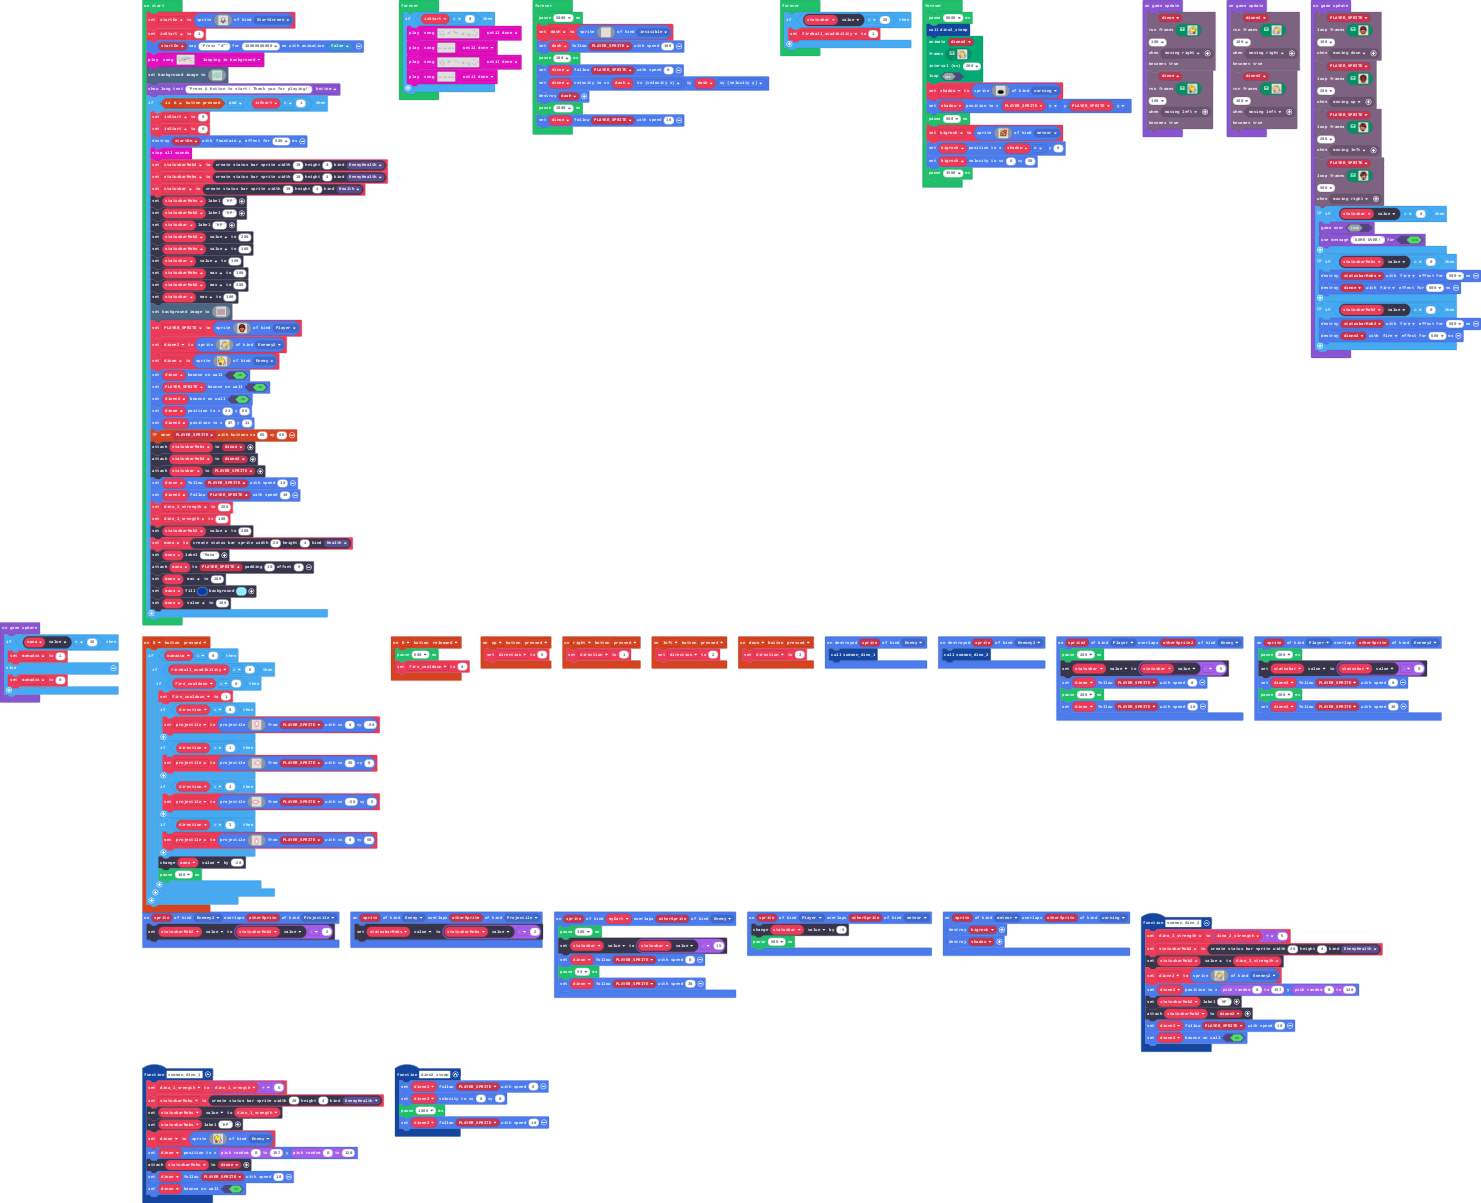
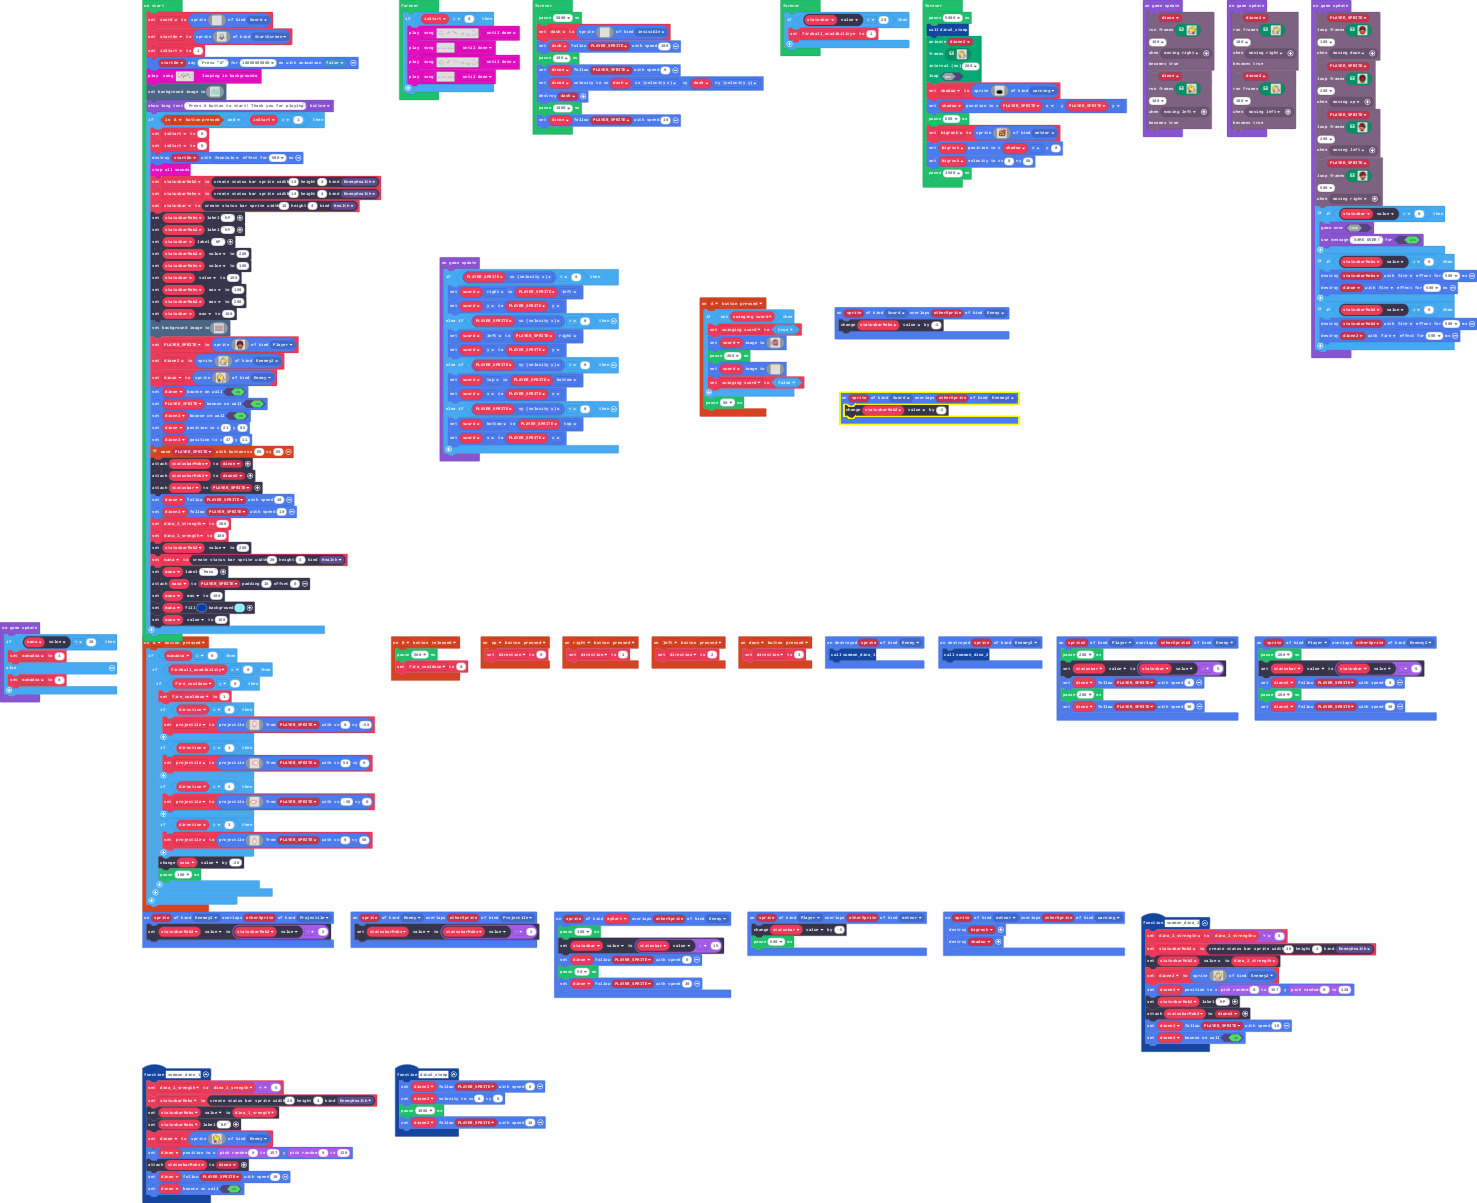
Update main.blocks, main.ts

diff --git a/main.ts b/main.ts
@@ -4,6 +4,7 @@ namespace SpriteKind {
     export const meteor = SpriteKind.create()
     export const invisible = SpriteKind.create()
     export const StartScreen = SpriteKind.create()
+    export const Sword = SpriteKind.create()
 }
 let myDart = 0
 controller.up.onEvent(ControllerButtonEvent.Pressed, function () {
@@ -46,6 +47,50 @@ function summon_dino_1 () {
     dinoe.follow(PLAYER_SPRITE, 10)
     dinoe.setBounceOnWall(true)
 }
+controller.A.onEvent(ControllerButtonEvent.Pressed, function () {
+    if (!(swinging_sword)) {
+        swinging_sword = true
+        sword.setImage(img`
+            . . . . . . . . . . . . . . . . 
+            . . . . . . e . e e e . . . . . 
+            . . . . e e e e e e e e . . . . 
+            . . . . e e e e . e e e e . . . 
+            . . . e e e e e . e e . e . . . 
+            . . e e e . e e . e . e e e . . 
+            . e . e e . e . . e . e e e . . 
+            . e e . e . e . . e . e . e . . 
+            e . e . e . e . e . . e . e . . 
+            e . e . e e e . e . e e . e . . 
+            . e . e . e e e e e e . e e . . 
+            . e e . e . e e e e e e e . . . 
+            . . . e e e . . e . e e e . . . 
+            . . . . . e e e e e e e . . . . 
+            . . . . . . . . . . . . . . . . 
+            . . . . . . . . . . . . . . . . 
+            `)
+        pause(200)
+        sword.setImage(img`
+            . . . . . . . . . . . . . . . . 
+            . . . . . . . . . . . . . . . . 
+            . . . . . . . . . . . . . . . . 
+            . . . . . . . . . . . . . . . . 
+            . . . . . . . . . . . . . . . . 
+            . . . . . . . . . . . . . . . . 
+            . . . . . . . . . . . . . . . . 
+            . . . . . . . . . . . . . . . . 
+            . . . . . . . . . . . . . . . . 
+            . . . . . . . . . . . . . . . . 
+            . . . . . . . . . . . . . . . . 
+            . . . . . . . . . . . . . . . . 
+            . . . . . . . . . . . . . . . . 
+            . . . . . . . . . . . . . . . . 
+            . . . . . . . . . . . . . . . . 
+            . . . . . . . . . . . . . . . . 
+            `)
+        swinging_sword = false
+    }
+    pause(50)
+})
 sprites.onOverlap(SpriteKind.Player, SpriteKind.meteor, function (sprite, otherSprite) {
     statusbar.value += -5
     pause(500)
@@ -94,6 +139,9 @@ function dino2_stomp () {
     pause(1000)
     dione2.follow(PLAYER_SPRITE, 10)
 }
+sprites.onOverlap(SpriteKind.Sword, SpriteKind.Enemey2, function (sprite, otherSprite) {
+    statusbarMob2.value += -2
+})
 sprites.onDestroyed(SpriteKind.Enemey2, function (sprite) {
     summon_dino_2()
 })
@@ -111,12 +159,16 @@ controller.B.onEvent(ControllerButtonEvent.Released, function () {
     pause(500)
     fire_cooldown = 0
 })
+sprites.onOverlap(SpriteKind.Sword, SpriteKind.Enemy, function (sprite, otherSprite) {
+    statusbarMobs.value += -2
+})
 sprites.onDestroyed(SpriteKind.Enemy, function (sprite) {
     summon_dino_1()
 })
 let dash: Sprite = null
 let shadow: Sprite = null
 let bigrock: Sprite = null
+let swinging_sword = false
 let projectile: Sprite = null
 let fire_cooldown = 0
 let fireball_avadibility = 0
@@ -131,6 +183,25 @@ let PLAYER_SPRITE: Sprite = null
 let statusbar: StatusBarSprite = null
 let statusbarMobs: StatusBarSprite = null
 let statusbarMob2: StatusBarSprite = null
+let sword: Sprite = null
+sword = sprites.create(img`
+    . . . . . . . . . . . . . . . . 
+    . . . . . . . . . . . . . . . . 
+    . . . . . . . . . . . . . . . . 
+    . . . . . . . . . . . . . . . . 
+    . . . . . . . . . . . . . . . . 
+    . . . . . . . . . . . . . . . . 
+    . . . . . . . . . . . . . . . . 
+    . . . . . . . . . . . . . . . . 
+    . . . . . . . . . . . . . . . . 
+    . . . . . . . . . . . . . . . . 
+    . . . . . . . . . . . . . . . . 
+    . . . . . . . . . . . . . . . . 
+    . . . . . . . . . . . . . . . . 
+    . . . . . . . . . . . . . . . . 
+    . . . . . . . . . . . . . . . . 
+    . . . . . . . . . . . . . . . . 
+    `, SpriteKind.Sword)
 let startOn = sprites.create(assets.image`myImage2`, SpriteKind.StartScreen)
 let isStart = 1
 startOn.sayText("Press \"A\"", 10000000000, false)
@@ -519,6 +590,21 @@ game.onUpdate(function () {
     if (statusbarMob2.value == 0) {
         sprites.destroy(statusbarMob2, effects.fire, 500)
         sprites.destroy(dione2, effects.fire, 500)
+    }
+})
+game.onUpdate(function () {
+    if (PLAYER_SPRITE.vx < 0) {
+        sword.right = PLAYER_SPRITE.left
+        sword.y = PLAYER_SPRITE.y
+    } else if (PLAYER_SPRITE.vx > 0) {
+        sword.left = PLAYER_SPRITE.right
+        sword.y = PLAYER_SPRITE.y
+    } else if (PLAYER_SPRITE.vy > 0) {
+        sword.top = PLAYER_SPRITE.bottom
+        sword.x = PLAYER_SPRITE.x
+    } else if (PLAYER_SPRITE.vy < 0) {
+        sword.bottom = PLAYER_SPRITE.top
+        sword.x = PLAYER_SPRITE.x
     }
 })
 game.onUpdate(function () {
